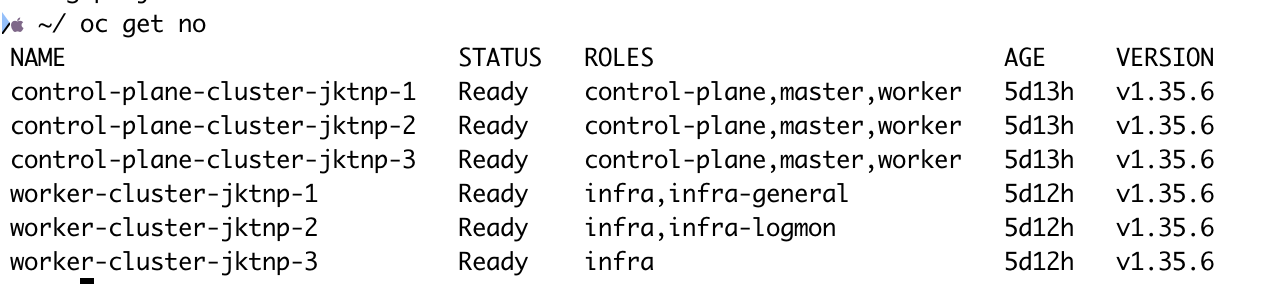
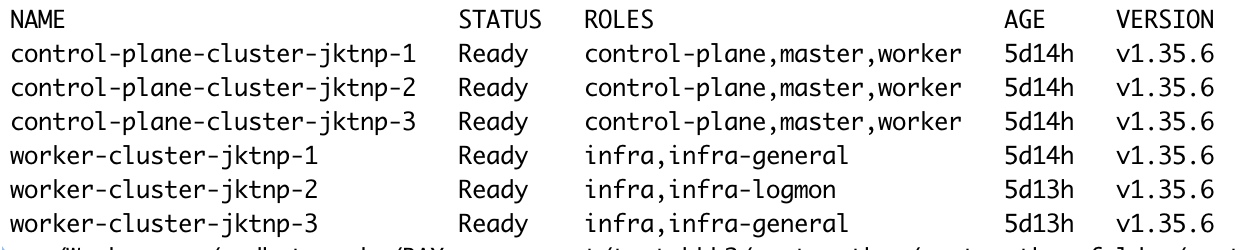
feat: update monitoring

diff --git a/modules/05-monitoring/README.md b/modules/05-monitoring/README.md
@@ -17,7 +17,7 @@ This ConfigMap (`cluster-monitoring-config` in `openshift-monitoring`) configure
 | Component | Node Selector | Storage | Other |
 |---|---|---|---|
 | `alertmanagerMain` | `infra` | `5Gi` (`standard-csi`) | — |
-| `prometheusK8s` | `infra` | `200Gi` (`standard-csi`) | `retention: 15d` |
+| `prometheusK8s` | `infra` | `100Gi` (`standard-csi`) | `retention: 15d` |
 | `prometheusOperator` | `infra` | — | — |
 | `monitoringPlugin` | `infra` | — | — |
 | `metricsServer` | `infra` | — | — |
@@ -54,15 +54,20 @@ oc patch pvc prometheus-data-prometheus-k8s-0 -n openshift-monitoring --type mer
 spec:
   resources:
     requests:
-      storage: 400Gi
+      storage: 200Gi
 '
 ```
-
+![Prometheus PVC expand](../../img/module-05/prometheus-pvc-expand.png)
 Verify:
 
 ```bash
-oc get pvc -n openshift-monitoring
+oc get pvc,pod -n openshift-monitoring
 ```
+
+
+After applying the monitoring ConfigMap, all monitoring pods and PVCs should be running on infra nodes with the configured storage:
+
+![Monitoring PVCs, pods, and Prometheus storage](../../img/module-05/monitoring-pvc-pods-storage.png)
 
 ---
 
@@ -103,4 +108,6 @@ spec:
 
 Once applied, the `KubeNodeNotReady` alert will carry the `team = platform-infra` label, which can be used in Alertmanager to route notifications to the correct receiver.
 
-![Alert relabel result](../../img/module-05/05-mail-relabel.png)
+> **Note:** `AlertRelabelConfig` only modifies labels on the Alertmanager side. The relabeled labels will appear in Alertmanager and in notifications (e.g. email, webhook), but they will **not** be visible in the OpenShift web console Observe > Alerting UI, which reads alerts directly from Prometheus before relabeling is applied.
+
+![Alert relabel email result](../../img/module-05/alert-relabel-email.png)
